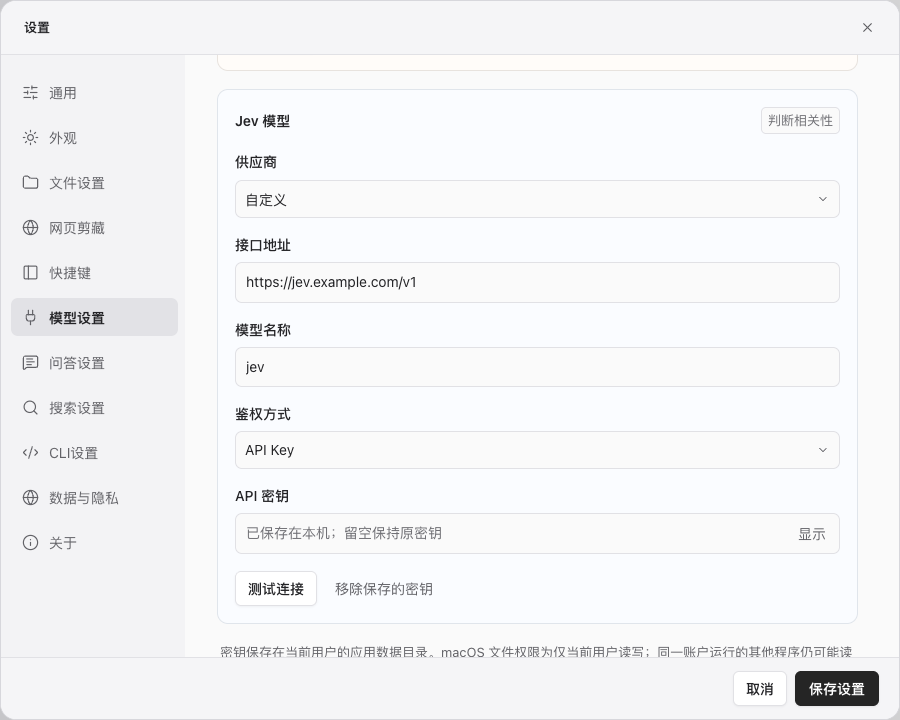
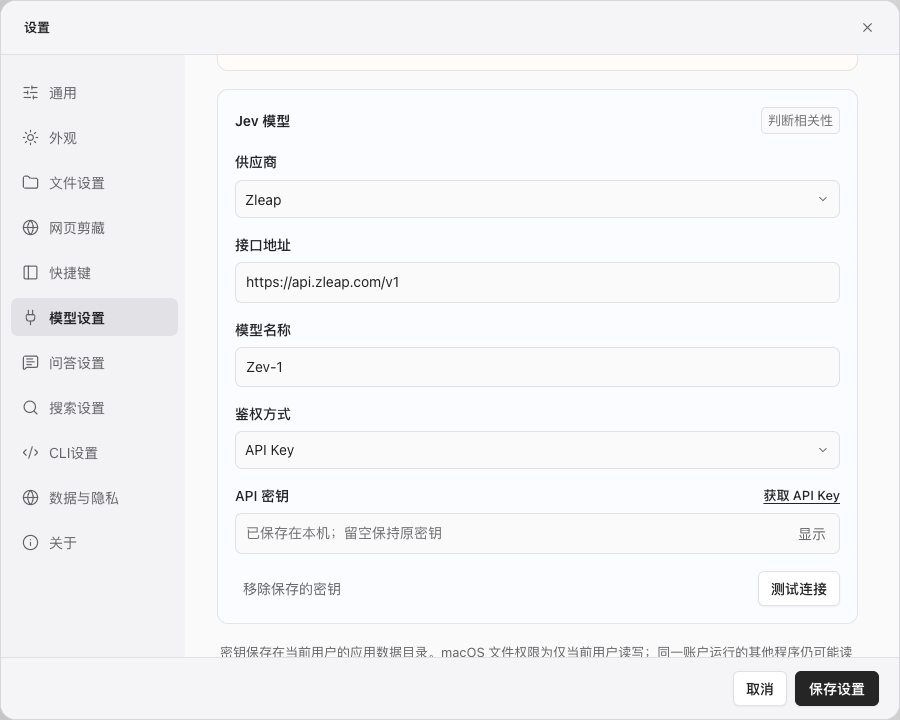
Default Jev retrieval to the Zleap decision model (#78)
* feat: default Jev retrieval to Zleap decision model

* docs: update CLI guide defaults for Zleap Jev

Point the repository CLI and Harness guides at the new default Jev
endpoint (https://api.zleap.com/v1) and model (Zev-1), and link the
Zleap Open Platform console for API keys, matching docs-site.

diff --git a/src/components/Settings.svelte b/src/components/Settings.svelte
@@ -40,7 +40,7 @@
  let settings={...structuredClone(value),runtime:structuredClone(value.runtime??{}),notes:{folder:(value.notes?.folder??'') as string|null,ask_location:value.notes?.ask_location??false},updates:structuredClone(value.updates??defaultUpdateSettings),convert_other_formats:value.convert_other_formats??false,search_summary_enabled:value.search_summary_enabled??true,search_summary_sources:value.search_summary_sources??10,language:value.language??'zh-CN',max_tool_calls:value.max_tool_calls??0,index_workers:value.index_workers??8,conversion_workers:value.conversion_workers??1,file_types:{markdown:true,text:true,code:false,config:false,...value.file_types},model_profiles:structuredClone(value.model_profiles??{}),mcp_servers:structuredClone(value.mcp_servers??[])},profileModel=value.answer.model,mcpDrafts:Record<string,string>={},page=initial==='jev'?'models':initial,answerKey='',jevKey='',mineruKey='',models=settings.answer.models.join('\n'),error='',status='',busy=false,showAnswer=false,showJev=false,mcpTesting='',mcpErrors:Record<string,string>={};
  let cliAccess:CliAccess|undefined=undefined,cliBusy=false;
  let cliConnection='',cliConnectionOpen=false,cliConnectionSuccessUntil=0;
- async function openAboutLink(event:MouseEvent,target:'project'|'company'|'302-api-keys'){event.preventDefault();error='';try{await api('open_about_link',{target})}catch(e){error=String(e)}}
+ async function openAboutLink(event:MouseEvent,target:'project'|'company'|'302-api-keys'|'zleap-console'){event.preventDefault();error='';try{await api('open_about_link',{target})}catch(e){error=String(e)}}
  let languageSaved=false;
  let providerChoice={answer:providerFor('answer',value.answer.url),jev:providerFor('jev',value.jev.url)};
  let autoFilledKey:ModelKind|null=null;
@@ -155,7 +155,7 @@
         <label class="field-label">{$t("模型名称")}<Input required bind:value={settings.jev.model} spellcheck="false"/></label>
         <label class="field-label auth-field">{$t("鉴权方式")}<Select label={$t("Jev 鉴权方式")} value={settings.jev.auth_mode??'bearer'} items={[{value:'bearer',label:$t('API Key')},{value:'none',label:$t('无需鉴权')}]} onValueChange={changeJevAuth}/></label>
         {#if settings.jev.auth_mode!=='none'}
-        <label class="field-label"><span class="key-field-label">{$t("API 密钥")}{#if providerChoice.jev==='302'}<a class="settings-key-link" href="https://302.ai/api-keys/list" target="_blank" rel="noreferrer" on:click={event=>openAboutLink(event,'302-api-keys')}>{$t("获取 API Key")}</a>{/if}</span><div class="key-field"><Input data-autofocus={initial==='jev'?true:undefined} type={showJev?'text':'password'} value={jevKey} oninput={event=>changeKey('jev',event.currentTarget.value)} placeholder={savedKeys.jev?$t("已保存在本机；留空保持原密钥"):$t("填写 API 密钥")} autocomplete="off" spellcheck="false"/><Button.Root type="button" onclick={()=>showJev=!showJev}>{showJev?$t("隐藏"):$t("显示")}</Button.Root></div></label>
+        <label class="field-label"><span class="key-field-label">{$t("API 密钥")}{#if providerChoice.jev==='zleap'}<a class="settings-key-link" href="https://platform.zleap.com/console" target="_blank" rel="noreferrer" on:click={event=>openAboutLink(event,'zleap-console')}>{$t("获取 API Key")}</a>{:else if providerChoice.jev==='302'}<a class="settings-key-link" href="https://302.ai/api-keys/list" target="_blank" rel="noreferrer" on:click={event=>openAboutLink(event,'302-api-keys')}>{$t("获取 API Key")}</a>{/if}</span><div class="key-field"><Input data-autofocus={initial==='jev'?true:undefined} type={showJev?'text':'password'} value={jevKey} oninput={event=>changeKey('jev',event.currentTarget.value)} placeholder={savedKeys.jev?$t("已保存在本机；留空保持原密钥"):$t("填写 API 密钥")} autocomplete="off" spellcheck="false"/><Button.Root type="button" onclick={()=>showJev=!showJev}>{showJev?$t("隐藏"):$t("显示")}</Button.Root></div></label>
         {/if}
        {/if}
        <div class="settings-card-actions">{#if settings[kind as ModelKind].has_key&&savedKeys[kind as ModelKind]}<Button.Root type="button" class="settings-text-button" onclick={()=>clearKey(kind as 'answer'|'jev')}>{$t("移除保存的密钥")}</Button.Root>{/if}<Button.Root type="button" class="outline settings-model-test" disabled={busy} onclick={()=>test(kind as 'answer'|'jev')}>{$t("测试连接")}</Button.Root></div>

diff --git a/bench/docs.ts b/bench/docs.ts
@@ -30,7 +30,7 @@ const now=Date.now();
 const conversation={id:'release-demo',title:question,updated:now,deleted:false,messages:[{created_at:now-60000,question,answer,evidence,model:'demo-model',scope:[],references:[],status:'complete',error:null,retrieval_question:question,context:{elapsed_ms:12400,limit:65536,reserved_output:2048,estimated_input:1250,omitted_sources:0,omitted_history:0,input_tokens:1250,output_tokens:240},tool_calls:[{id:'search',answer_offset:0,query:JSON.stringify({query:question}),source_count:3,elapsed_ms:320,server_name:'SAG',tool_name:'search',result:{documents:3}},{id:'read',answer_offset:0,query:JSON.stringify({path:docs[0].path}),source_count:1,elapsed_ms:24,server_name:'SAG',tool_name:'read',result:body}]}]};
 const partial=params.get('partial')==='1';
 const roots=[{path:root,name:text('项目资料','Project notes'),status:partial?'partial':'ready',count:docs.length,error:partial?text('未能索引 1 个文件\n文件无法读取','Could not index one file\nUnable to read the file'):null}];
-const settings={theme:'light',language:en?'en':'zh-CN',start_page:params.get('start')||'ask',editor_size:15,search_summary_enabled:true,search_summary_sources:10,answer:{model:'demo-model',models:['demo-model'],url:'https://api.example.com/v1',has_key:true},jev:{model:'jev',models:['jev'],url:'https://jev.example.com/v1',has_key:true,auth_mode:'bearer'},retrieval:{candidate_k:50,seed_k:10,expansion_term_limit:20,max_hops:1,top_k:10,chunk_chars:512},watch:true,show_hidden:false,excluded:[],timeout_secs:120,answer_context_tokens:65536,answer_output_tokens:2048,model_profiles:{'demo-model':{system_prompt:'',sag2_enabled:true,mcp_servers:['example']}},mcp_servers:[{id:'example',name:'Example Docs',transport:'http',url:'https://mcp.example.com',command:'',args:[],require_confirmation:true,has_credentials:false,tools:[{name:'read_document',description:'Read a documentation page'}]}]};
+const settings={theme:'light',language:en?'en':'zh-CN',start_page:params.get('start')||'ask',editor_size:15,search_summary_enabled:true,search_summary_sources:10,answer:{model:'demo-model',models:['demo-model'],url:'https://api.example.com/v1',has_key:true},jev:{model:'Zev-1',models:[],url:'https://api.zleap.com/v1',has_key:true,auth_mode:'bearer'},retrieval:{candidate_k:50,seed_k:10,expansion_term_limit:20,max_hops:1,top_k:10,chunk_chars:512},watch:true,show_hidden:false,excluded:[],timeout_secs:120,answer_context_tokens:65536,answer_output_tokens:2048,model_profiles:{'demo-model':{system_prompt:'',sag2_enabled:true,mcp_servers:['example']}},mcp_servers:[{id:'example',name:'Example Docs',transport:'http',url:'https://mcp.example.com',command:'',args:[],require_confirmation:true,has_credentials:false,tools:[{name:'read_document',description:'Read a documentation page'}]}]};
 const history=[{id:3,path:root,name:roots[0].name,started_at:now-3600000,finished_at:now-3590000,completed:3,total:4,status:'partial',error:text('未能读取部分文件，请检查文件权限。','Some files could not be read. Check file permissions.')},{id:2,path:root,name:roots[0].name,started_at:now-86400000,finished_at:now-86390000,completed:3,total:3,status:'ready',error:null}];
 const docling={installed:false,running:false,stage:'idle',message:'',downloaded:0,total:null,packages_done:null,packages_total:null,error:null,formats:[],builtin_formats:[['Documents',['pdf','docx','xlsx','epub']]],profiles:[]};
 const graphDocs=docs.map(({body,...d})=>({...d,file_type:'md'}));

diff --git a/tests/provider-settings.test.ts b/tests/provider-settings.test.ts
@@ -53,11 +53,11 @@ it('LLM 六个供应商自动填入地址，自定义地址与模型列表可以
  expect(onSave.mock.calls[0][0].answer).toMatchObject({url:'https://proxy.example/v1',model:'first',models:['first','second']});
 });
 it('Jev 预设供应商填入对应评分接口，并提供自定义选项',async()=>{
- expect(providers.jev.map(provider=>provider.label)).toEqual(['302.AI','OpenRouter','Typesafe','自定义']);
+ expect(providers.jev.map(provider=>provider.label)).toEqual(['Zleap','302.AI','OpenRouter','Typesafe','自定义']);
  await setup();
  for(const provider of providers.jev.filter(provider=>provider.value!=='custom')){await choose('jev',provider.value);expect(address('jev').value).toBe(provider.url);}
  trigger('jev').dispatchEvent(new KeyboardEvent('keydown',{key:'ArrowDown',bubbles:true}));
- await vi.waitFor(()=>expect(document.querySelectorAll('[role=option]')).toHaveLength(4));
+ await vi.waitFor(()=>expect(document.querySelectorAll('[role=option]')).toHaveLength(5));
  expect(document.querySelector('[role=option][data-value=custom]')).not.toBeNull();
 });
 it('Jev 自定义地址用于测试连接，保存后重新打开仍显示该地址',async()=>{
@@ -161,4 +161,17 @@ it('切回 API Key 后仍禁止复用原供应商的保存密钥',async()=>{
  card('jev').querySelector<HTMLButtonElement>('.settings-model-test')!.click();
  await vi.waitFor(()=>expect(document.body.textContent).toContain('切换供应商后，请填写对应的 API 密钥。'));
  expect(api.mock.calls.filter(([command])=>!['mineru_schema','runtime_schema'].includes(command))).toHaveLength(0);await save();expect(onSave).not.toHaveBeenCalled();
+});
+
+it('Zleap 预设显示控制台密钥入口，并与 302 问答密钥隔离',async()=>{
+ const settings=structuredClone(value);settings.jev={...settings.jev,url:'https://api.zleap.com/v1',model:'Zev-1',auth_mode:'bearer'};
+ const onSave=await setup(settings);
+ expect(trigger('jev').textContent).toContain('Zleap');
+ const link=card('jev').querySelector<HTMLAnchorElement>('.settings-key-link')!;
+ expect(link.href).toBe('https://platform.zleap.com/console');
+ link.click();await tick();expect(api).toHaveBeenCalledWith('open_about_link',{target:'zleap-console'});
+ await input(key('answer'),'test-answer-key');expect(key('jev').value).toBe('');
+ await input(key('jev'),'test-zleap-key');await save();
+ expect(onSave.mock.calls[0].slice(1,3)).toEqual(['test-answer-key','test-zleap-key']);
+ await choose('jev','official');expect(card('jev').querySelector('.settings-key-link')).toBeNull();
 });

diff --git a/src/lib/providers.ts b/src/lib/providers.ts
@@ -11,6 +11,7 @@ export const providers: Record<ModelKind, Provider[]> = {
   {value:'custom',label:'自定义',url:''},
  ],
  jev: [
+  {value:'zleap',label:'Zleap',url:'https://api.zleap.com/v1'},
   {value:'302',label:'302.AI',url:'https://api.302ai.cn/typesafeai/v1'},
   {value:'openrouter',label:'OpenRouter',url:'https://openrouter.ai/api/alpha/decisions'},
   {value:'official',label:'Typesafe',url:'https://api.typesafe.ai/v1'},

diff --git a/cli/tests/onboarding.rs b/cli/tests/onboarding.rs
@@ -78,11 +78,11 @@ fn first_run_guides_configuration_and_does_not_echo_the_key() {
     let mut command = Command::new(env!("CARGO_BIN_EXE_sag"));
     command.env("SAG_DATA_DIR", data.path());
     let mut terminal = Terminal::start(command);
-    terminal.wait_for("JEV 接口地址 [https://api.302ai.cn/typesafeai/v1]：");
-    assert!(terminal.output.contains("https://api.302ai.cn/typesafeai/v1"));
+    terminal.wait_for("JEV 接口地址 [https://api.zleap.com/v1]：");
+    assert!(terminal.output.contains("https://api.zleap.com/v1"));
     terminal.send("\n");
-    terminal.wait_for("模型名称 [jev-latest]：");
-    assert!(terminal.output.contains("jev-latest"));
+    terminal.wait_for("模型名称 [Zev-1]：");
+    assert!(terminal.output.contains("Zev-1"));
     terminal.send("\n");
     terminal.wait_for("API 密钥（输入隐藏）：");
     terminal.send_secret("first-run-private-key\n");
@@ -132,8 +132,8 @@ fn piped_installer_guides_setup_through_the_terminal() {
         .env("PATH", "/usr/bin:/bin").env("SAG_DATA_DIR", home.path().join("data"))
         .env("SAG_BINARY", env!("CARGO_BIN_EXE_sag"));
     let mut terminal = Terminal::start(command);
-    terminal.wait_for("JEV 接口地址 [https://api.302ai.cn/typesafeai/v1]："); terminal.send("\n");
-    terminal.wait_for("模型名称 [jev-latest]："); terminal.send("\n");
+    terminal.wait_for("JEV 接口地址 [https://api.zleap.com/v1]："); terminal.send("\n");
+    terminal.wait_for("模型名称 [Zev-1]："); terminal.send("\n");
     terminal.wait_for("API 密钥（输入隐藏）："); terminal.send_secret("installer-hidden-key\n");
     terminal.wait_for("配置已保存"); terminal.finish();
     assert!(!terminal.output.contains("installer-hidden-key"));
@@ -150,7 +150,7 @@ fn setup_continues_the_original_search_after_saving() {
         if current<2{
             assert_eq!(request["command"]["command"],"configure");
             if current==1{assert_eq!(request["command"]["key"],"search-private-key");}
-            serde_json::json!({"type":"configured","data":{"url":"https://api.302ai.cn/typesafeai/v1","model":"jev-latest","models":[],"has_key":current==1}})
+            serde_json::json!({"type":"configured","data":{"url":"https://api.zleap.com/v1","model":"Zev-1","models":[],"has_key":current==1}})
         }else{
             assert_eq!(request["command"]["query"],"where is session validation?");
             serde_json::json!({"type":"search","data":{"protocol_version":2,"scope":server_root,"results":[{"path":"./evidence.md","absolute_path":server_root.join("evidence.md"),"start_line":1,"end_line":1,"content":"session validation evidence"}],"truncated":false}})
@@ -159,8 +159,8 @@ fn setup_continues_the_original_search_after_saving() {
     let mut command = Command::new(env!("CARGO_BIN_EXE_sag"));
     command.args(["where is session validation?", "-c"]).current_dir(root).env("SAG_DATA_DIR", data.path());
     let mut terminal = Terminal::start(command);
-    terminal.wait_for("JEV 接口地址 [https://api.302ai.cn/typesafeai/v1]："); terminal.send("\n");
-    terminal.wait_for("模型名称 [jev-latest]："); terminal.send("\n");
+    terminal.wait_for("JEV 接口地址 [https://api.zleap.com/v1]："); terminal.send("\n");
+    terminal.wait_for("模型名称 [Zev-1]："); terminal.send("\n");
     terminal.wait_for("API 密钥（输入隐藏）："); terminal.send_secret("search-private-key\n");
     terminal.wait_for("session validation evidence"); terminal.finish();
     assert!(!terminal.output.contains("search-private-key"));
@@ -265,7 +265,7 @@ fn cancelling_setup_does_not_save_a_key() {
     let mut command = Command::new(env!("CARGO_BIN_EXE_sag"));
     command.env("SAG_DATA_DIR", data.path());
     let mut terminal = Terminal::start(command);
-    terminal.wait_for("JEV 接口地址 [https://api.302ai.cn/typesafeai/v1]：");
+    terminal.wait_for("JEV 接口地址 [https://api.zleap.com/v1]：");
     terminal.send("\u{3}");
     terminal.expect_exit(130);
     let shown = Command::new(env!("CARGO_BIN_EXE_sag")).arg("config")
@@ -281,8 +281,8 @@ fn cancelling_password_input_restores_terminal_echo() {
     let mut command = Command::new(env!("CARGO_BIN_EXE_sag"));
     command.env("SAG_DATA_DIR", data.path());
     let mut terminal = Terminal::start(command);
-    terminal.wait_for("JEV 接口地址 [https://api.302ai.cn/typesafeai/v1]："); terminal.send("\n");
-    terminal.wait_for("模型名称 [jev-latest]："); terminal.send("\n");
+    terminal.wait_for("JEV 接口地址 [https://api.zleap.com/v1]："); terminal.send("\n");
+    terminal.wait_for("模型名称 [Zev-1]："); terminal.send("\n");
     terminal.wait_for("API 密钥（输入隐藏）："); terminal.send_secret("\u{3}");
     terminal.expect_exit(130);
     let mut mode = std::mem::MaybeUninit::<libc::termios>::uninit();

diff --git a/core/src/store.rs b/core/src/store.rs
@@ -2780,15 +2780,16 @@ while [ ! -f "$(dirname "$0")/release" ]; do sleep 0.02; done
     }
 
     #[test]
-    fn new_settings_use_302_jev_and_keep_saved_provider() {
+    fn new_settings_use_zleap_jev_and_keep_saved_provider() {
         let dir = tempfile::tempdir().unwrap();
         let path = dir.path().join("settings.sqlite");
         let store = Store::open(&path).unwrap();
         let mut settings = store.settings().unwrap();
-        assert_eq!(settings.jev.url, "https://api.302ai.cn/typesafeai/v1");
-        assert_eq!(settings.jev.model, "jev-latest");
-        assert_eq!(crate::models::endpoint(&settings.jev, true), "https://api.302ai.cn/typesafeai/v1/systemone");
+        assert_eq!(settings.jev.url, "https://api.zleap.com/v1");
+        assert_eq!(settings.jev.model, "Zev-1");
+        assert_eq!(crate::models::endpoint(&settings.jev, true), "https://api.zleap.com/v1/systemone");
         assert!(!settings.jev.has_key);
+        assert_eq!(settings.jev.auth_mode, crate::types::ModelAuthMode::Bearer);
 
         settings.jev.url = "https://openrouter.ai/api/alpha/decisions".into();
         settings.jev.model = "typesafe/jev-1.13".into();

diff --git a/protocol/src/types.rs b/protocol/src/types.rs
@@ -312,8 +312,8 @@ impl Default for Settings {
             credential_error: None,
             answer: ModelConfig::default(),
             jev: ModelConfig {
-                url: "https://api.302ai.cn/typesafeai/v1".into(),
-                model: "jev-latest".into(),
+                url: "https://api.zleap.com/v1".into(),
+                model: "Zev-1".into(),
                 models: vec![],
                 has_key: false,
                 auth_mode: ModelAuthMode::Bearer,

diff --git a/src-tauri/src/lib.rs b/src-tauri/src/lib.rs
@@ -405,6 +405,7 @@ fn open_about_link(target: &str) -> CommandResult<()> {
         "project" => "https://github.com/Zleap-AI/SAG-Wiki",
         "company" => "https://zleap.com",
         "docling" => "https://docling.ai/",
+        "zleap-console" => "https://platform.zleap.com/console",
         "302-api-keys" => "https://302.ai/api-keys/list",
         _ => return Err("未知的关于页面链接".into()),
     };

diff --git a/docs/en/cli-and-harness.md b/docs/en/cli-and-harness.md
@@ -16,7 +16,7 @@ sag
 
 The published `@zleap-ai/sag` contains native executables for these two platforms. Rust, source compilation and desktop installation are unnecessary. npm registers the `sag` command. Reuse an existing working `sag` installation.
 
-The first interactive run of `sag` guides configuration of the JEV retrieval service. The endpoint and model prompts show their current values; press Enter to keep them. API Key authentication is the default; first-time setup in this mode requires a key, entered with hidden input. The default endpoint is `https://api.302ai.cn/typesafeai/v1`, and the model is `jev-latest`. CLI search needs only this retrieval configuration. The answer model is configured separately in desktop.
+The first interactive run of `sag` guides configuration of the JEV retrieval service. The endpoint and model prompts show their current values; press Enter to keep them. API Key authentication is the default; first-time setup in this mode requires a key, entered with hidden input. The default endpoint is `https://api.zleap.com/v1`, and the model is `Zev-1`. Create the API key in the [Zleap Open Platform console](https://platform.zleap.com/console). CLI search needs only this retrieval configuration. The answer model is configured separately in desktop.
 
 If no terminal was available during installation, the first terminal invocation of `sag` or `sag "search query"` opens the same setup flow. When started from a search, saving configuration resumes the original query. Existing usable API Key or no-authentication settings are reused automatically. Ctrl+C cancels; nothing is saved until setup finishes. Run `sag config` to configure it again at any time.
 

diff --git a/docs/zh-CN/CLI与Harness使用说明.md b/docs/zh-CN/CLI与Harness使用说明.md
@@ -16,7 +16,7 @@ sag
 
 已发布的 `@zleap-ai/sag` 包含这两个平台的原生程序，无需 Rust、源码编译或桌面端。npm 负责注册 `sag` 命令；已有可用的 `sag` 时直接复用。
 
-首次在交互终端运行 `sag` 会引导配置 JEV 检索服务。接口地址和模型名显示当前值，直接回车即可保留；默认使用 API Key 鉴权，首次配置此模式时填写密钥，输入隐藏。默认地址为 `https://api.302ai.cn/typesafeai/v1`，模型为 `jev-latest`。纯 CLI 搜索只需要这一项检索配置，问答模型在桌面端另行设置。
+首次在交互终端运行 `sag` 会引导配置 JEV 检索服务。接口地址和模型名显示当前值，直接回车即可保留；默认使用 API Key 鉴权，首次配置此模式时填写密钥，输入隐藏。默认地址为 `https://api.zleap.com/v1`，模型为 `Zev-1`。密钥在 [Zleap 开放平台控制台](https://platform.zleap.com/console)创建。纯 CLI 搜索只需要这一项检索配置，问答模型在桌面端另行设置。
 
 如果安装时没有终端，首次在终端运行 `sag` 或 `sag "搜索内容"` 会自动进入同一引导；从搜索进入时，保存后继续原来的查询。已有可用的 API Key 或无需鉴权配置时自动复用。Ctrl+C 可取消，填写完成前不会保存。`sag config` 可以随时重新配置。
 
